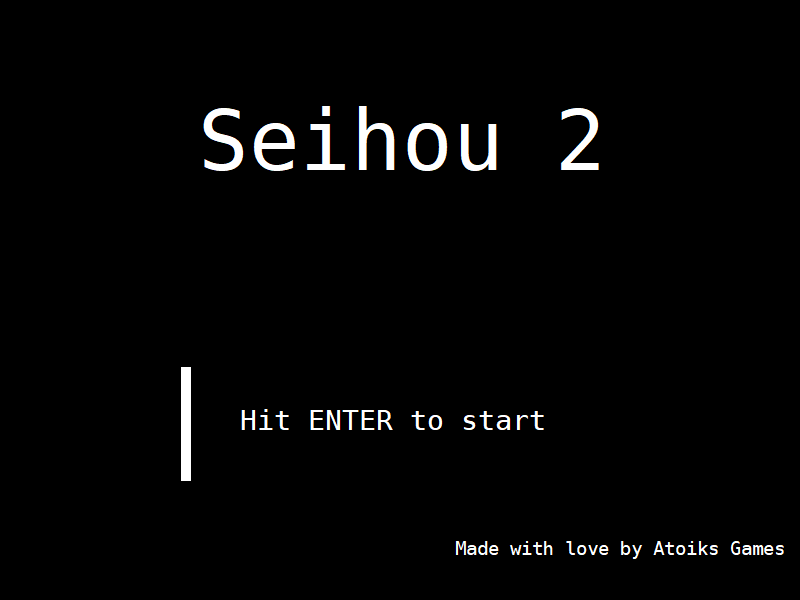
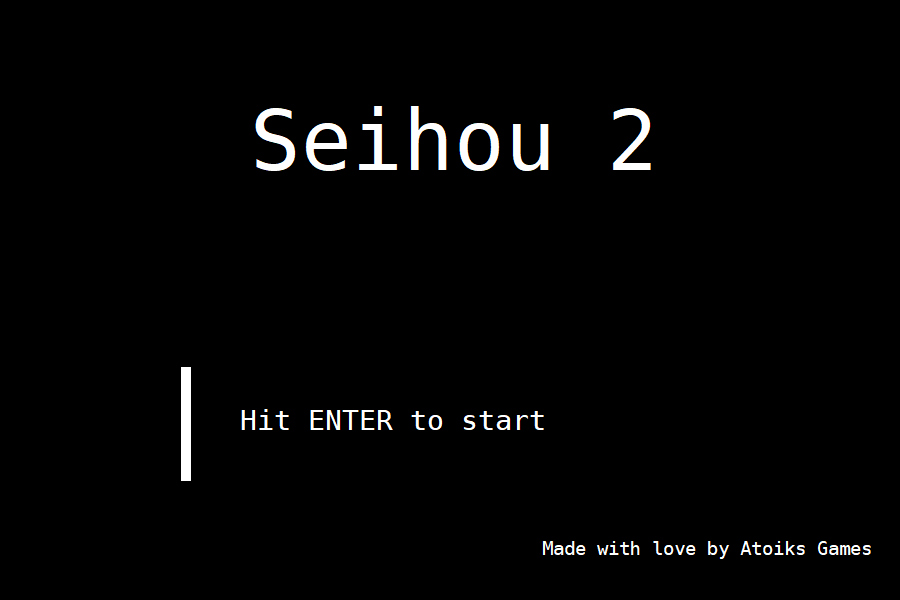
Change screen size and add stats panel

diff --git a/src/main/java/org/atoiks/games/seihou2/scenes/MainScene.java b/src/main/java/org/atoiks/games/seihou2/scenes/MainScene.java
@@ -10,13 +10,14 @@ import org.atoiks.games.seihou2.entities.enemies.*;
 
 public final class MainScene extends Scene {
 
-    public static final int WIDTH = 800;
+    public static final int WIDTH = 900;
     public static final int HEIGHT = 600;
+    public static final int GAME_BORDER = 750;
 
     public static final float DEFAULT_DX = 300f;
     public static final float DEFAULT_DY = 300f;
 
-    private final Game game = new Game(WIDTH / 2, HEIGHT / 6 * 5);
+    private final Game game = new Game(GAME_BORDER / 2, HEIGHT / 6 * 5);
 
     private byte updatePhase = -1;
     private Updater[] updatePhases = new Updater[]{
@@ -27,10 +28,16 @@ public final class MainScene extends Scene {
 
     @Override
     public void render(final Graphics g) {
+        // The bullet-curtain part
         g.setColor(Color.black);
-        g.fillRect(0, 0, WIDTH, HEIGHT);
-
+        g.fillRect(0, 0, GAME_BORDER, HEIGHT);
         game.render(g);
+
+        // The game stats part
+        g.setColor(Color.black);
+        g.fillRect(GAME_BORDER, 0, WIDTH, HEIGHT);
+        g.setColor(Color.white);
+        g.drawLine(GAME_BORDER, 0, GAME_BORDER, HEIGHT);
     }
 
     @Override
@@ -47,7 +54,7 @@ public final class MainScene extends Scene {
         for (int i = 0; i < game.enemies.size(); ++i) {
             final IEnemy enemy = game.enemies.get(i);
             enemy.update(dt);
-            if (enemy.isOutOfScreen(WIDTH, HEIGHT)) {
+            if (enemy.isOutOfScreen(GAME_BORDER, HEIGHT)) {
                 game.enemies.remove(i);
                 if (--i < -1) break;
             }
@@ -59,7 +66,7 @@ public final class MainScene extends Scene {
         for (int i = 0; i < game.enemyBullets.size(); ++i) {
             final IBullet bullet = game.enemyBullets.get(i);
             bullet.update(dt);
-            if (bullet.isOutOfScreen(WIDTH, HEIGHT)) {
+            if (bullet.isOutOfScreen(GAME_BORDER, HEIGHT)) {
                 game.enemyBullets.remove(i);
                 if (--i < -1) break;
             }
@@ -71,7 +78,7 @@ public final class MainScene extends Scene {
         for (int i = 0; i < game.playerBullets.size(); ++i) {
             final IBullet bullet = game.playerBullets.get(i);
             bullet.update(dt);
-            if (bullet.isOutOfScreen(WIDTH, HEIGHT)) {
+            if (bullet.isOutOfScreen(GAME_BORDER, HEIGHT)) {
                 game.playerBullets.remove(i);
                 if (--i < -1) break;
             }
@@ -93,7 +100,7 @@ public final class MainScene extends Scene {
         tmpVal = 0;
         tmpPos = game.player.getX();
         if (scene.keyboard().isKeyDown(KeyEvent.VK_RIGHT)) {
-            if (tmpPos + Player.RADIUS < WIDTH) tmpVal += DEFAULT_DX;
+            if (tmpPos + Player.RADIUS < GAME_BORDER) tmpVal += DEFAULT_DX;
         }
         if (scene.keyboard().isKeyDown(KeyEvent.VK_LEFT)) {
             if (tmpPos - Player.RADIUS > 0) tmpVal -= DEFAULT_DX;
@@ -159,7 +166,7 @@ public final class MainScene extends Scene {
 
     @Override
     public void enter() {
-        game.addEnemyBullet(new PointBullet(WIDTH / 2, -10, 10, 20, 60));
+        game.addEnemyBullet(new PointBullet(GAME_BORDER / 2, -10, 10, 20, 60));
 
         game.addEnemy(new EnemyGroup(0.17f, 5, () -> new PointEnemy(30, 10, 8)));
         game.addEnemy(new EnemyGroup(0.17f, 5, () -> new PointEnemy(50, 10, 8)));

diff --git a/src/main/java/org/atoiks/games/seihou2/App.java b/src/main/java/org/atoiks/games/seihou2/App.java
@@ -11,7 +11,7 @@ public class App {
         final FrameInfo info = new FrameInfo()
                 .setTitle("Atoiks Games - Seihou 2")
                 .setResizable(false)
-                .setSize(800, 600)
+                .setSize(900, 600)
                 .setScenes(new LoadingScene(), new TitleScene(), new MainScene());
         try (final Frame frame = new Frame(info)) {
             frame.init();

diff --git a/src/main/java/org/atoiks/games/seihou2/scenes/TitleScene.java b/src/main/java/org/atoiks/games/seihou2/scenes/TitleScene.java
@@ -2,8 +2,8 @@ package org.atoiks.games.seihou2.scenes;
 
 import java.awt.Color;
 import java.awt.Image;
-import java.awt.event.KeyEvent;
 import java.awt.Graphics;
+import java.awt.event.KeyEvent;
 
 import org.atoiks.games.framework.Scene;
 
